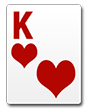
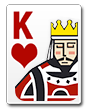
JQK扑克修改，抢庄逻辑修改

Changed region(s): [[0.1591, 0.1607, 0.8864, 0.9107]]

diff --git a/Classes/GamePlayScene.cpp b/Classes/GamePlayScene.cpp
@@ -105,7 +105,7 @@ void GamePlayScene::update(float delta)
         case ChooseMultipleState:{
             if (m_timeLayer && m_timeLayer->canRemove())
             {
-                notChooseMulAction();
+                notChooseMulAction(0);
                 unschedule(schedule_selector(GamePlayScene::update));
             }
             break;
@@ -211,12 +211,12 @@ void GamePlayScene::onBtnTouch(Ref *pSender, Widget::TouchEventType type)
 				DebugSimpleServer::getInstance()->playerReady("alw");
                 break;
             }
-            case TAG_NOT_HOG_BTN:
+            case TAG_HOG_BTN:
             {
                 notHogBtnAction();
                 break;
             }
-            case TAG_HOG_BTN:
+            case TAG_NOT_HOG_BTN:
             {
                 m_notHogBtn->setVisible(false);
                 m_HogBtn->setVisible(false);
@@ -230,7 +230,9 @@ void GamePlayScene::onBtnTouch(Ref *pSender, Widget::TouchEventType type)
             case TAG_MUL_THERE:
             case TAG_MUL_FOUR:
             case TAG_MUL_FIVE:{
-                notChooseMulAction();
+                notChooseMulAction(0);
+//                m_player->showMulti(tag-TAG_MUL_ONE+1,this);
+//                scheduleOnce(schedule_selector(GamePlayScene::notChooseMulAction), 10.0f);
                 break;
             }
 			case TAG_CHAT_BTN:
@@ -501,7 +503,7 @@ void GamePlayScene::showChooseMultipleButton()
 }
 
 #pragma mark-选择倍数超时
-void GamePlayScene::notChooseMulAction(){
+void GamePlayScene::notChooseMulAction(float dt){
     m_OneBtn->setVisible(false);
     m_TwoBtn->setVisible(false);
     m_ThreeBtn->setVisible(false);

diff --git a/Classes/NiuPoker.cpp b/Classes/NiuPoker.cpp
@@ -31,19 +31,14 @@ void NiuPoker::showFront(){
     char path[256] = { 0 };
     sprintf(path, "pokerBig/%d_%d@2x.png", m_huaSe,m_num);
     this->setTexture(path);
-//	if (m_num<3)
-//		this->setTextureRect(Rect((10 + this->m_num)*pkWidth, this->m_huaSe*pkHeight, pkWidth, pkHeight));
-//	else
-//		this->setTextureRect(Rect((this->m_num - 3)*pkWidth, this->m_huaSe*pkHeight, pkWidth, pkHeight));
 }
 void NiuPoker::showLast(){
     this->setTexture("pokerBig/card_back@2x.png");
-//	this->setTextureRect(Rect(PaiHaoBM*pkWidth, HuaSeBM*pkHeight, pkWidth, pkHeight));
 }
 
 void NiuPoker::showFront_small(){
     char path[256] = { 0 };
-    if ((m_num==2&&m_huaSe==1)||(m_num==1&&m_huaSe==3)) {
+    if ((m_num==2&&m_huaSe==1)||(m_num==1&&m_huaSe==3)||m_num>=11) {
         sprintf(path, "pokerSmall/%d-20_%d.png", m_huaSe,m_num);
     }else{
         sprintf(path, "pokerSmall/%d-20_%d.jpg", m_huaSe,m_num);
@@ -58,10 +53,6 @@ void NiuPoker::showLast_small(){
 
 NiuPoker* NiuPoker::copy(){
 	NiuPoker* pk;
-//	if (m_num<3)
-//		pk = NiuPoker::create("Poker.png", Rect((10 + this->m_num)*pkWidth, this->m_huaSe*pkHeight, pkWidth, pkHeight));
-//	else
-//		pk = NiuPoker::create("Poker.png", Rect((this->m_num - 3)*pkWidth, this->m_huaSe*pkHeight, pkWidth, pkHeight));
 	pk->m_isDianJi = this->m_isDianJi;
 	pk->m_isSelect = this->m_isSelect;
 	pk->setHuaSe(this->getHuaSe());

diff --git a/Classes/GamePlayScene.h b/Classes/GamePlayScene.h
@@ -73,7 +73,7 @@ private:
     /** 不抢和抢庄超时事件 */
     void notHogBtnAction();
     /** 选择倍数超时事件 */
-    void notChooseMulAction();
+    void notChooseMulAction(float dt);
 private:
 	TimeLayer* m_timeLayer;
 	ChatLayer* m_chatLayer;
